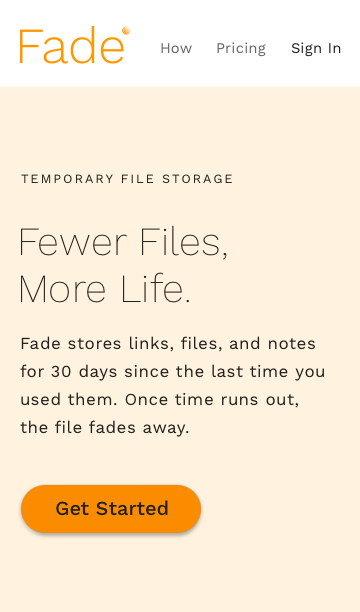
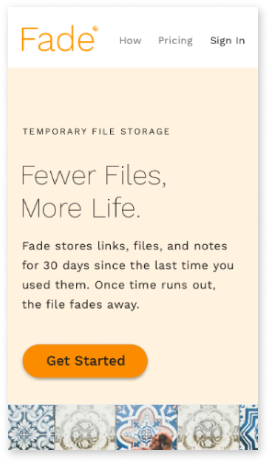
create wide mockup sections

diff --git a/fade-full-case.html b/fade-full-case.html
@@ -57,6 +57,8 @@
     </nav>
     <header class="summary-hero" id="fade-hero">
       <img src="/images/fade-home-mobile.png" alt="Fade Home Mobile">
+      <img src="images/upload-mockup.png" alt="Fade Upload">
+      <img class="mockup" src="images/recover-mockup.png" alt="Fade Recover">
     </header>
     <section class="intro">
       <ul class="section-container">
@@ -210,6 +212,7 @@
       <p class="body1 light">I went back to the companies in the competitive analysis to look at common user flows across their sites and mapped them to what I need to create in this project.</p>
     </section>
     <section class="text-container med-dark-background">
+      <p class="overline dark">user personas</p>
       <div class="multi-column">
         <ul class="group">
           <li class="group-item">
@@ -285,17 +288,101 @@
     <section class="text-container light-background">
       <p class="overline dark">initial concept</p>
       <p class="body1 dark">All of these insights and materials went into the 1st concept. I put together paper sketches and clickable prototypes in Invision, so I could test them as quickly as possible with users to see if I was heading in the right direction.</p>
-      <figure id="wireframes-arrow">
-        <img src="/images/right-arrow-dark.svg" alt="Right Arrow">
-      </figure>
-      <div class="wireframes">
-        <figure>
-          <img src="images/supply-sketches.png" alt="Mobile Sketches">
-        </figure>
-        <figure>
-          <img src="images/supply-wireframes.png" alt="Mobile Wireframes">
-        </figure>
+    </section>
+    <section class="wide-background light-background">
+      <div class="multi-column">
+        <ul class="group">
+          <li class="group-item">
+            <h2>Homepage</h2>
+          </li>
+          <li class="group-item">
+            <img class="mockup" src="images/homepage-sketch.png" alt="Homepage Sketch">
+          </li>
+        </ul>
+        <ul class="group">
+          <li class="group-item">
+            <h2>File List</h2>
+          </li>
+          <li class="group-item">
+            <img class="mockup" src="images/file-list-sketch.png" alt="File List Sketch">
+          </li>
+        </ul>
+        <ul class="group">
+          <li class="group-item">
+            <h2>Doc Create</h2>
+          </li>
+          <li class="group-item">
+            <img class="mockup" src="images/doc-create-sketch.png" alt="Doc Create Sketch">
+          </li>
+        </ul>
+        <ul class="group">
+          <li class="group-item">
+            <h2>Side Nav</h2>
+          </li>
+          <li class="group-item">
+            <img class="mockup" src="images/side-nav-sketch.png" alt="Side Nav Sketch">
+          </li>
+        </ul>
+        <ul class="group">
+          <li class="group-item">
+            <h2>Homepage</h2>
+          </li>
+          <li class="group-item">
+            <img class="mockup" src="images/homepage-low-mockup.png" alt="Homepage Low Fidelity Mockup">
+          </li>
+        </ul>
+        <ul class="group">
+          <li class="group-item">
+            <h2>File List</h2>
+          </li>
+          <li class="group-item">
+            <img class="mockup" src="images/file-list-low-mockup.png" alt="File List Low Fidelity Mockup">
+          </li>
+        </ul>
+        <ul class="group">
+          <li class="group-item">
+            <h2>File Archive</h2>
+          </li>
+          <li class="group-item">
+            <img class="mockup" src="images/file-archive-low-mockup.png" alt="File Archive Low Fidelity Mockup">
+          </li>
+        </ul>
+        <ul class="group">
+          <li class="group-item">
+            <h2>Sharing</h2>
+          </li>
+          <li class="group-item">
+            <img class="mockup" src="images/invite-low-mockup.png" alt="Sharing Low Fidelity Mockup">
+          </li>
+        </ul>
       </div>
+    </section>
+    <section class="text-container light-background">
+      <p class="overline dark">Usability Testing - Round 1</p>
+      <div class="group-bullet">
+        <h2 class="annotation">1</h2>
+        <p class="body1 dark">Hierarchy of files and folders is not clear</p>
+      </div>
+      <div class="group-bullet">
+        <h2 class="annotation">2</h2>
+        <p class="body1 dark">The terminology of “close” and “archive” is not clear</p>
+      </div>
+      <div class="group-bullet">
+        <h2 class="annotation">3</h2>
+        <p class="body1 dark">Users struggled to delete and reopen files</p>
+      </div>
+    </section>
+    <section class="cta light-background">
+      <div>
+          <a href="https://docs.google.com/document/d/1M5NnbhRnLb7FOkDyHuHvFRLqm9dzdxVs-H0uQUJ7Q1I/edit?usp=sharing" target="_blank">
+            <button class="button-filled button-dark">
+              <p class="overline">read the usability results</p>
+            </button>
+          </a>
+      </div>
+    </section>
+    <section class="text-container light-background">
+      <p class="overline dark">a new direction</p>
       <p class="body1 dark">The results from the user testing came in and it was clear I bit off more than I could chew with the twin focus on both collaboration and expiration. Instead of enhancing the experience, working on both elements watered down the benefits and made it difficult for users to see how the app worked and would benefit them.</p>
       <div class="text-callout">
         <h1 class="medium">Collaboration</h1>
@@ -341,25 +428,103 @@
         </a>
       </div>
     </section>
-    <section class="text-container dark-background">
-      <p class="overline light">iteration</p>
-      <figure id="wireframes-arrow">
-        <img src="/images/right-arrow-light.svg" alt="Right Arrow">
-      </figure>
-      <div class="wireframes">
-        <figure>
-          <img class="mockup" src="/images/1st-concept.png" alt="1st Concept Wireframe">
-        </figure>
-        <figure>
-          <img class="mockup" src="/images/2nd-concept.png" alt="2nd Concept Wireframe">
-        </figure>
+    <section class="wide-background light-background">
+      <div class="multi-column">
+        <ul class="group">
+          <li class="group-item">
+            <h2>Homepage</h2>
+          </li>
+          <li class="group-item">
+            <img class="mockup" src="images/homepage-sketch.png" alt="Homepage Sketch">
+          </li>
+        </ul>
+        <ul class="group">
+          <li class="group-item">
+            <h2>File List</h2>
+          </li>
+          <li class="group-item">
+            <img class="mockup" src="images/file-list-sketch.png" alt="File List Sketch">
+          </li>
+        </ul>
+        <ul class="group">
+          <li class="group-item">
+            <h2>Doc Create</h2>
+          </li>
+          <li class="group-item">
+            <img class="mockup" src="images/doc-create-sketch.png" alt="Doc Create Sketch">
+          </li>
+        </ul>
+        <ul class="group">
+          <li class="group-item">
+            <h2>Side Nav</h2>
+          </li>
+          <li class="group-item">
+            <img class="mockup" src="images/side-nav-sketch.png" alt="Side Nav Sketch">
+          </li>
+        </ul>
+        <ul class="group">
+          <li class="group-item">
+            <h2>Homepage</h2>
+          </li>
+          <li class="group-item">
+            <img class="mockup" src="images/homepage-low-mockup.png" alt="Homepage Low Fidelity Mockup">
+          </li>
+        </ul>
+        <ul class="group">
+          <li class="group-item">
+            <h2>File List</h2>
+          </li>
+          <li class="group-item">
+            <img class="mockup" src="images/file-list-low-mockup.png" alt="File List Low Fidelity Mockup">
+          </li>
+        </ul>
+        <ul class="group">
+          <li class="group-item">
+            <h2>File Archive</h2>
+          </li>
+          <li class="group-item">
+            <img class="mockup" src="images/file-archive-low-mockup.png" alt="File Archive Low Fidelity Mockup">
+          </li>
+        </ul>
+        <ul class="group">
+          <li class="group-item">
+            <h2>Sharing</h2>
+          </li>
+          <li class="group-item">
+            <img class="mockup" src="images/invite-low-mockup.png" alt="Sharing Low Fidelity Mockup">
+          </li>
+        </ul>
       </div>
     </section>
     <section class="text-container med-background">
-      <p class="overline dark">testing</p>
-      <figure>
-        <img class="diagram" src="images/preference-test.png" alt="Fade Preference Test">
-      </figure>
+      <p class="overline dark">usability testing - round 2</p>
+      <div class="group-bullet">
+        <h2 class="annotation">1</h2>
+        <p class="body1 dark">Hierarchy of files and folders is not clear</p>
+      </div>
+      <div class="group-bullet">
+        <h2 class="annotation">2</h2>
+        <p class="body1 dark">The terminology of “close” and “archive” is not clear</p>
+      </div>
+      <div class="group-bullet">
+        <h2 class="annotation">3</h2>
+        <p class="body1 dark">Users struggled to delete and reopen files</p>
+      </div>
+      <div class="group-bullet">
+        <h2 class="annotation">3</h2>
+        <p class="body1 dark">Users struggled to delete and reopen files</p>
+      </div>
+    </section>
+    <section class="cta med-background">
+      <div>
+          <a href="https://docs.google.com/document/d/1TCkjzyhcTIbZ84Nn4QmIL7vsTWIhfafFqEd7akLCP6E/edit?usp=sharing" target="_blank">
+            <button class="button-filled button-dark">
+              <p class="overline">read the usability results</p>
+            </button>
+          </a>
+      </div>
+    </section>
+    <section class="text-container med-background">
       <p class="body1 dark">User feedback on the second version of the app showed that people understood the expiration direction and took to it very quickly. It was much more clear to users after I focused on expiration.</p>
       <p class="body1 dark">Even though users could see the value in the app, there were still clear signs that the homepage needed to do a better job of explaining the service and answering important questions before users would sign up and actually start using the app.</p>
       <p class="body1 dark">I dove into the homepage and added new sections walking through the features and pricing and set up preference tests with users to finalize the homepage.</p>

diff --git a/css/main.css b/css/main.css
@@ -558,6 +558,25 @@ figure i {
   max-width: 160px;
 }
 
+.wide-background {
+  margin: 48px 0px;
+  width: 100%;
+  height: 100%;
+  padding: 48px;
+}
+
+.annotation {
+  border-radius: 50%;
+  background-color: #2f80ed;
+  height: 30px;
+  width: 30px;
+  text-align: center;
+  color: #ffff;
+  margin-right: 12px;
+  vertical-align: middle;
+  padding-bottom: 2px;
+}
+
 
 @media screen and (min-width: 800px) {
   h1 {
